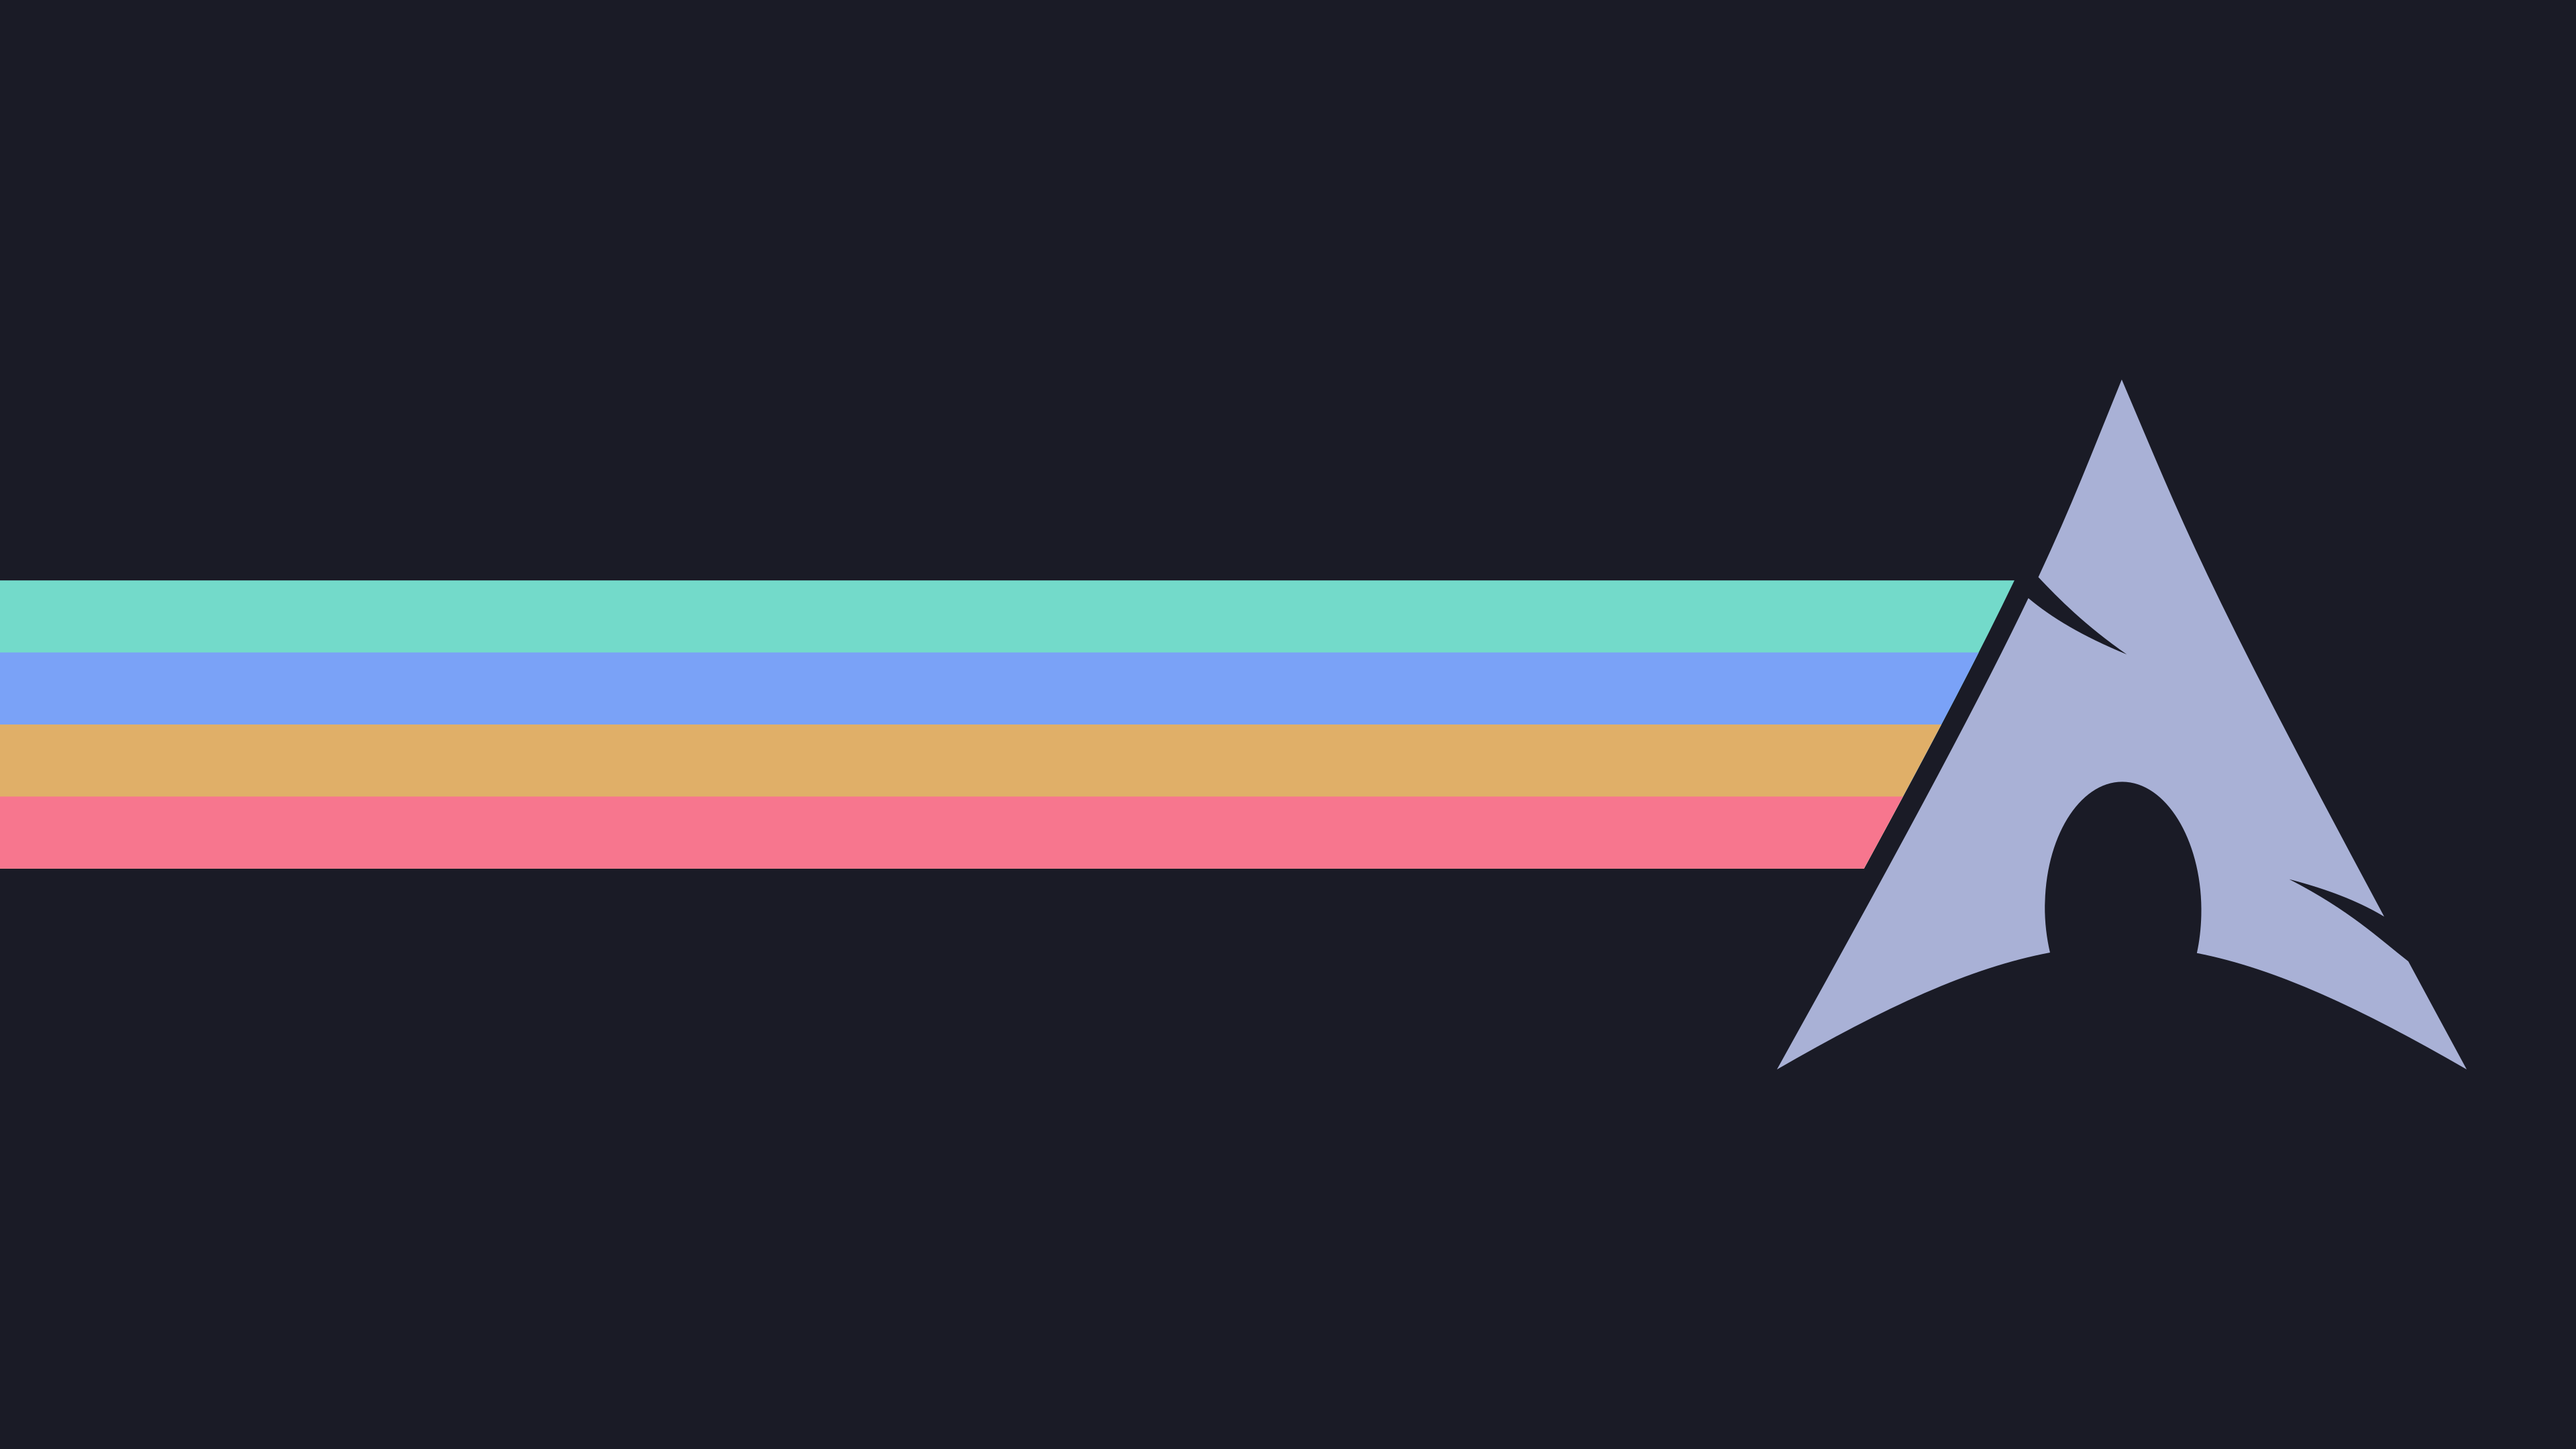
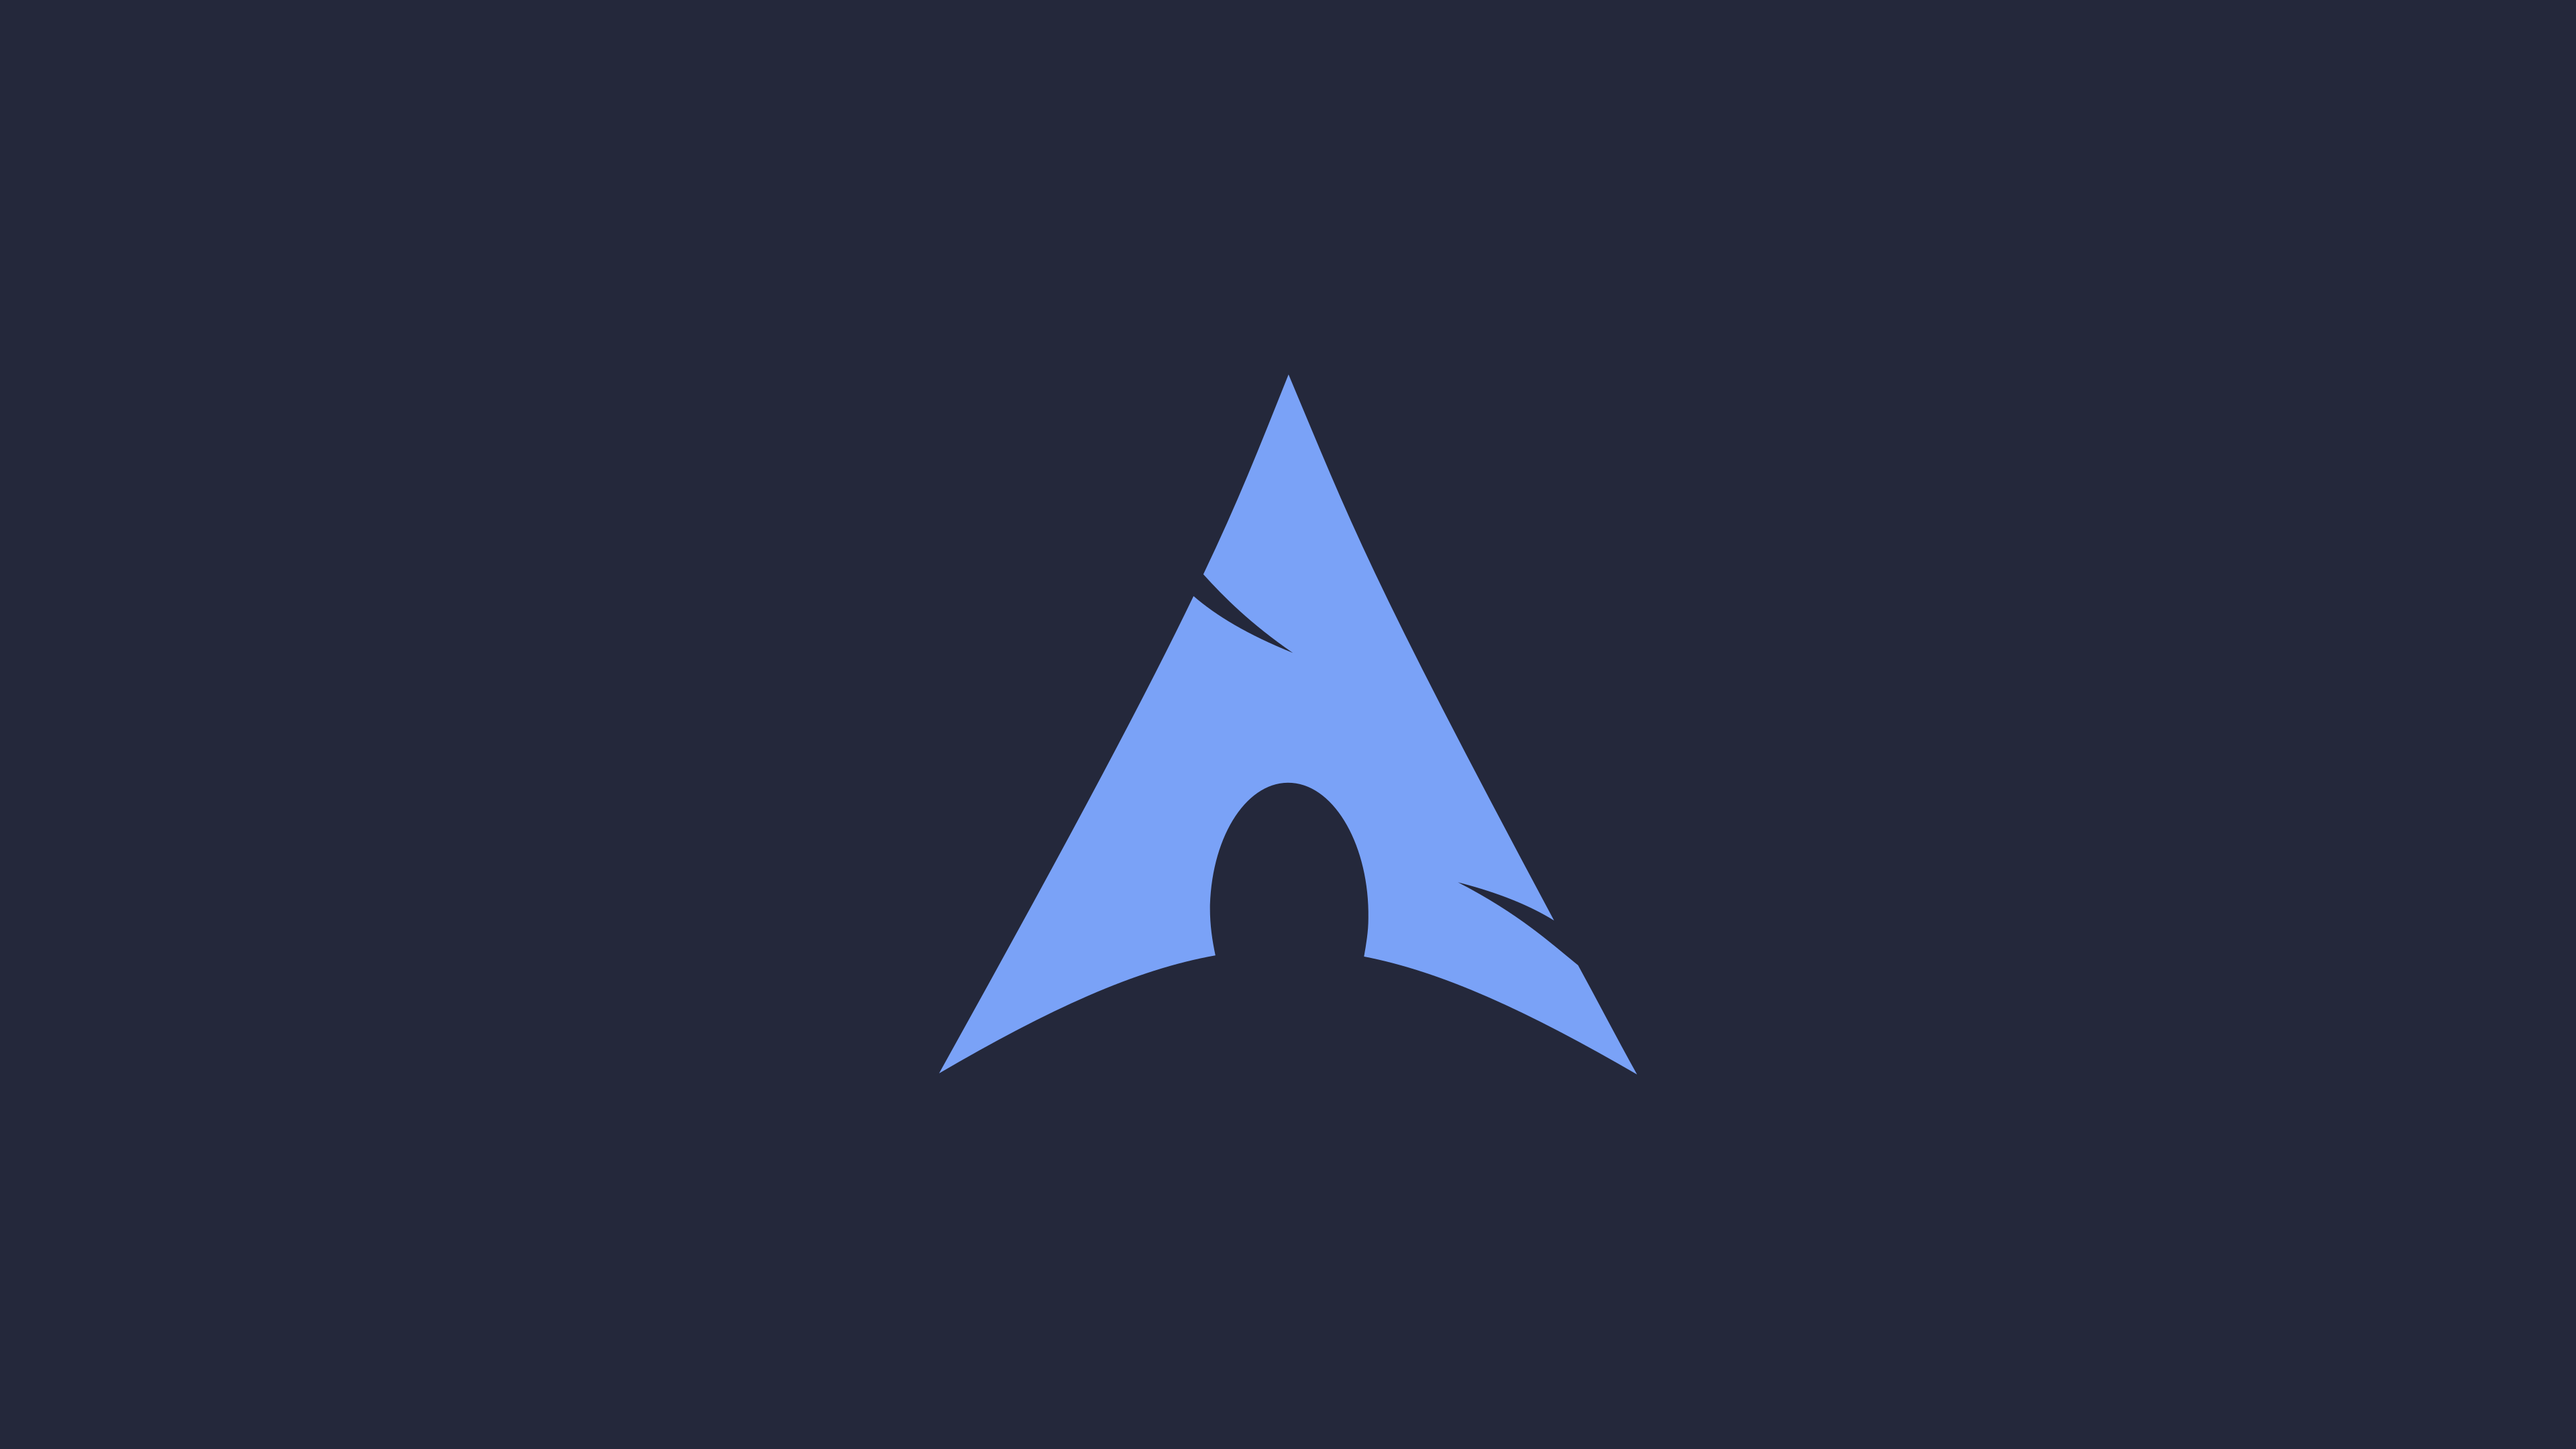
arch-tokyonight

Changed region(s): [[0.0, 0.2792, 0.9688, 0.7444]]

diff --git a/waybar/style.css b/waybar/style.css
@@ -10,8 +10,8 @@ window#waybar {
 	/* color: #ffffff; */
 
 	/* Tokyonight */
-	color: rgba(217, 216, 216, 1);
-	background: #1a1b26;
+	color: #a9b1d6;
+	background: #24283b;
 }
 
 window#waybar.hidden {
@@ -37,7 +37,7 @@ window#waybar.hidden {
 }
 
 #workspaces button.urgent {
-	background-color: #f44747;
+	background-color: #f7768e;
 }
 
 label.module {
@@ -59,7 +59,7 @@ label.module {
 }
 
 #battery.critical:not(.charging) {
-	color: #f53c3c;
+	color: #f7768e;
 	background-color: rgba(255, 0, 0, 0.1);
 	padding: 0 5px;
 	animation-name: blink;
@@ -70,7 +70,7 @@ label.module {
 }
 
 #battery.warning:not(.charging) {
-	color: orange;
+	color: #ff9e64;
 	background-color: rgba(255, 165, 0, 0.1);
 	padding: 0 5px;
 }
